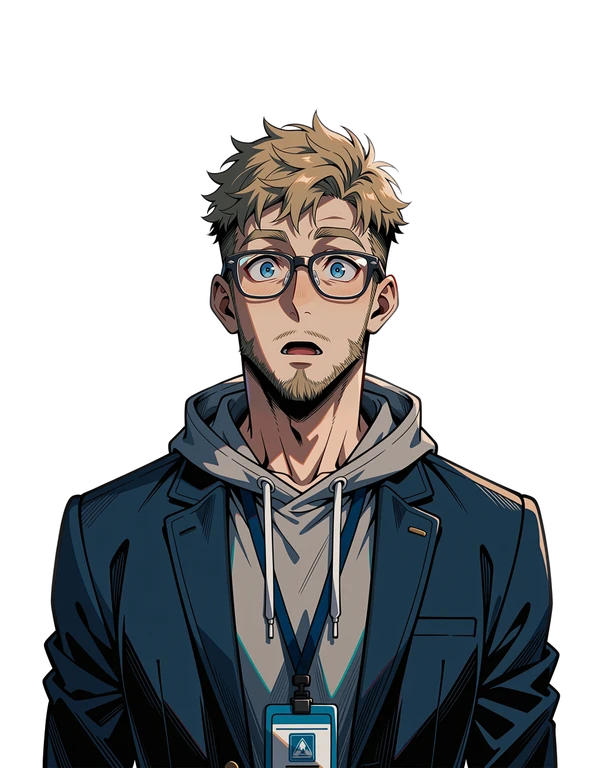
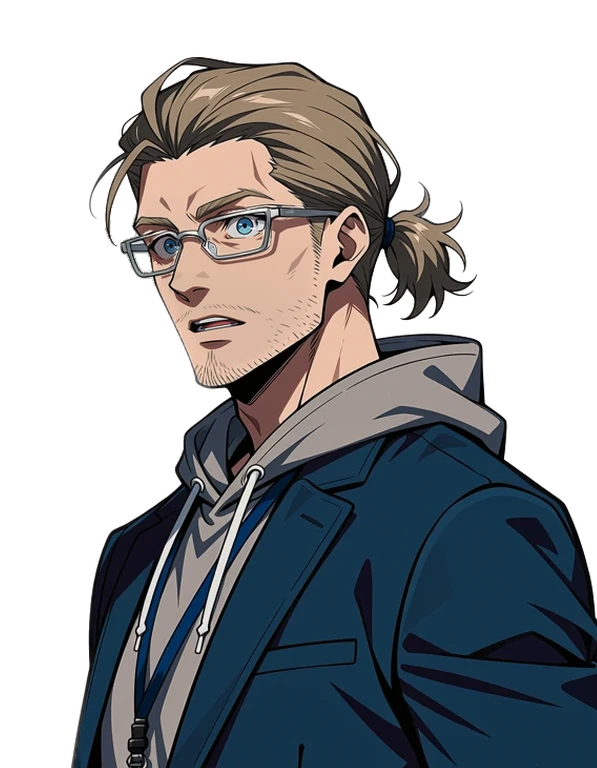
portraits: Eric's surprised and tired faces from the new portrait (eric-expressions-1)
Facts: docs/game/art-and-sound.md

diff --git a/docs/game/art-and-sound.md b/docs/game/art-and-sound.md
@@ -34,7 +34,7 @@ The anime portraits beside the dialogue box. The faces each person has are in [c
 | `emi` | Approved: art/approved/emi/emi-after.webp. |
 | `aoi` | Approved: art/approved/aoi/aoi-after.webp. |
 | `kuro` | Approved: art/approved/kuro/kuro-after.webp. |
-| `eric` | Neutral approved (2026-09-29): eric-r4-909 from reviews/eric-portrait-anime-5 (Jørgen: "perfect, just might need a crop to get to the same height as the other characters"). Cropped and scaled so his face box matches the one the game places him by (game3d/js/ui.js `FACE.eric`), cut out with BiRefNet-HR and tools/matte_refine.py, the glasses frame kept solid with `--opaque`. Height check: reviews/eric-portrait-final. Before this, eric-v2-734 (seed 734 v2) was approved on 2026-09-28; that old neutral is kept in art/production/eric-portrait-final/. His surprised and tired faces are still the old 734 style and need new faces from r4-909. The natural-pose portraits (neck, coffee) were rejected. Final game crop 25% bigger at the same chin height (reviews/eric-portrait-final-3, Jørgen: "looks good!"). |
+| `eric` | Neutral approved (2026-09-29): eric-r4-909 from reviews/eric-portrait-anime-5 (Jørgen: "perfect, just might need a crop to get to the same height as the other characters"). Cropped and scaled so his face box matches the one the game places him by (game3d/js/ui.js `FACE.eric`), cut out with BiRefNet-HR and tools/matte_refine.py, the glasses frame kept solid with `--opaque`. Height check: reviews/eric-portrait-final. Before this, eric-v2-734 (seed 734 v2) was approved on 2026-09-28; that old neutral is kept in art/production/eric-portrait-final/. His surprised and tired faces are still the old 734 style and need new faces from r4-909. The natural-pose portraits (neck, coffee) were rejected. Final game crop 25% bigger at the same chin height (reviews/eric-portrait-final-3, Jørgen: "looks good!"). Surprised s2-d70-1 and tired t3-d65-1 picked the same day (reviews/eric-expressions-1). |
 | `guard` | Provisional (the art agent's pick). |
 | `mori` | Provisional (seed 713). |
 | `kenji` | Provisional (seed 711, which Jørgen hasn't approved); new concept art is coming. |
